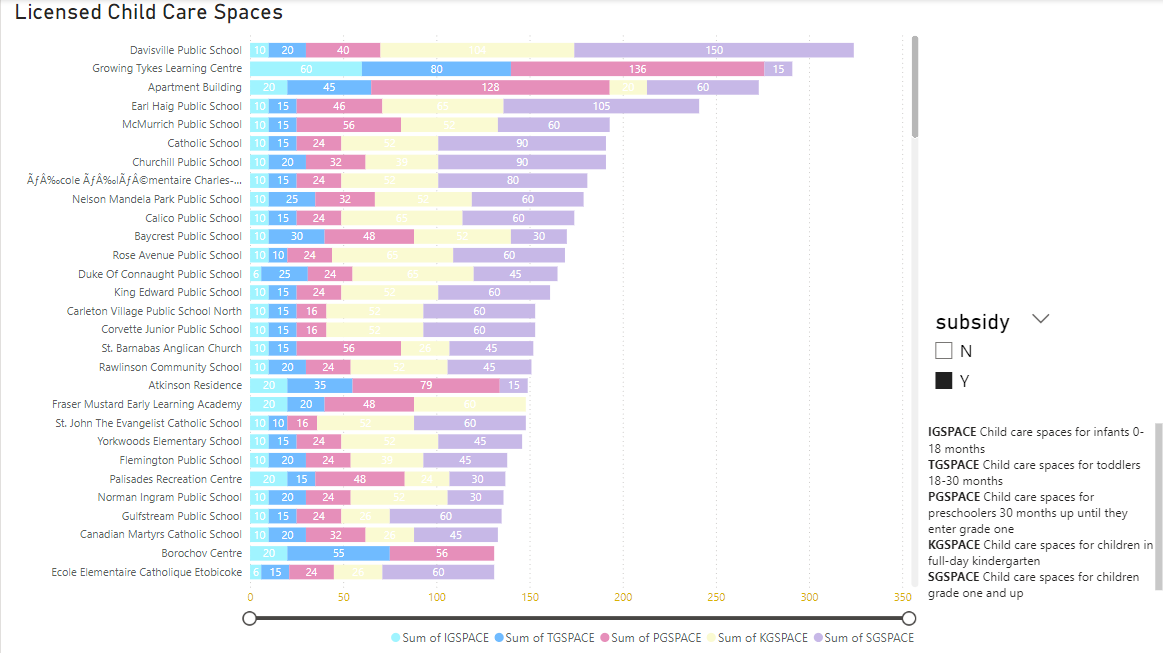
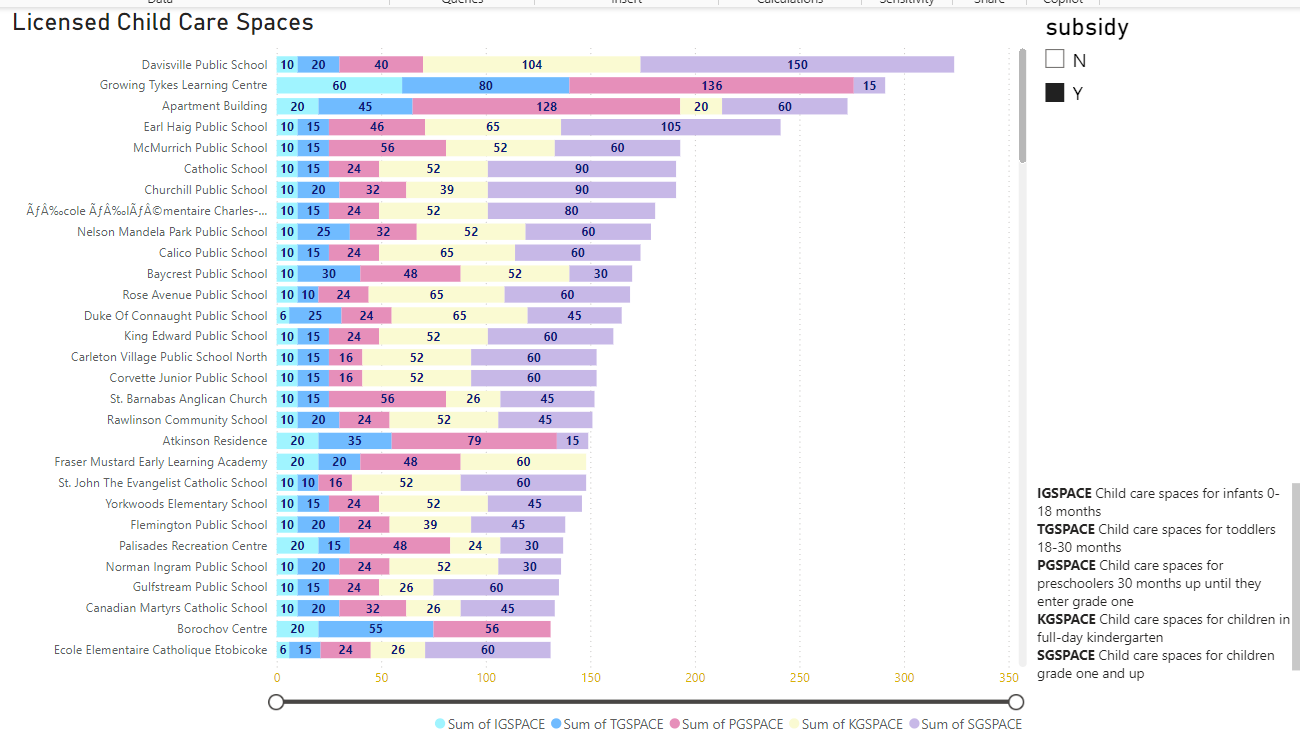
assignment-4

diff --git a/02_activities/assignments/assignment_4.md b/02_activities/assignments/assignment_4.md
@@ -10,16 +10,30 @@
     > What software did you use to create your data visualization?
     1. I used Jupyter Notebook for creating my data visualization. Specifically, I used Python libraries including pandas for data manipulation, folium for creating interactive maps, and geopy for geocoding addresses.
 
+    2. I used Power BI to create my second data visualization.
+
+
     > Who is your intended audience? 
     1. The intended audience for this visualization includes parents looking for licensed child care centers in Toronto, policymakers, and researchers interested in analyzing the distribution and availability of child care services in the city.
+
+    2. The intended audience for this visualization includes policymakers, city planners, education administrators, and parents in Toronto. This visualization is designed to help them understand the distribution and capacity of licensed child care centres across the city.
+
     
     > What information or message are you trying to convey with your visualization? 
     1. The main message of the visualization is to show the geographical distribution of licensed child care centers in Toronto and to highlight which centers offer fee subsidy contracts. This helps in identifying areas with high or low availability of subsidized child care services.
+
+    2. The visualization aims to convey the total number of child care spaces available in various licensed child care centres in Toronto. It highlights the different types of child care spaces (e.g., infant, toddler, preschool, kindergarten, school-age) and distinguishes centres that offer fee subsidies from those that don't.
+
     
     > What design principles (substantive, perceptual, aesthetic) did you consider when making your visualization? How did you apply these principles? With what elements of your plots? 
     1. Substantive: The map is focused on providing meaningful information about the location and subsidy status of child care centers. This helps users make informed decisions.
     Perceptual: Different colors are used to distinguish between centers that offer fee subsidies and those that do not, making it easy to perceive the information at a glance.
     Aesthetic: The map is designed to be visually appealing yet simple. Clean markers and no legends by default ensures that the map is not cluttered. Legends pop-up when to move the cursor over the selected marker. Markers are chosen to be easily visible against the map background. The map is centered around Toronto with an appropriate zoom level to give a clear view of the city and the distribution of the centers.
+
+    2. Substantive: I ensured the data accurately represented the number and types of child care spaces available at each centre.
+    Perceptual: I used different colors for the different types of spaces (IGSPACE, TGSPACE, PGSPACE, KGSPACE, SGSPACE).
+    Aesthetic: I chose a clean and readable layout, with a horizontal bar chart to make it easy to compare the total spaces across different centres. The use of color helps in distinguishing between the various categories.
+
     
     > How did you ensure that your data visualizations are reproducible? If the tool you used to make your data visualization is not reproducible, how will this impact your data visualization? 
     1. I ensured reproducibility by:
@@ -27,17 +41,28 @@
     - writing and documenting the code in Jupyter Notebook, which can be shared and executed in any environment with the required libraries installed.
     - including installation commands for necessary libraries to facilitate setting up the environment.
     If the tool was not reproducible, it would significantly impact the usability and reliability of the visualization, making it difficult for others to verify or build upon my work.
+
+    2. To ensure reproducibility, I used Power BI, which allows for the visualization to be recreated using the same dataset and steps. If Power BI weren't reproducible, it'd impact the ability to verify and build upon the analysis.
+
     
     > How did you ensure that your data visualization is accessible? 
     1. Using clear and distinguishable colors for markers to aid in quick identification.
     Adding tooltips and pop-ups on the map markers to provide additional information about each child care center.
-    Ensuring the map is interactive and can be zoomed and panned for better visibility and user experience. 
+    Ensuring the map is interactive and can be zoomed and panned for better visibility and user experience.
+
+    2. I used apropriate colors and included labels and a legend to ensure the visualization is accessible to people with visual impairments. The chart is designed to be clear and easy to interpret, with explanatory text for different space types and subsidy status. 
     
     > Who are the individuals and communities who might be impacted by your visualization? 
     1. The individuals and communities impacted by this visualization are:
-    - parents looking for child care options in Toronto.
-    - policymakers and local government officials who plan and allocate resources for child care services.
-    - community organizations that advocate for improved child care services and accessibility. 
+    - parents looking for child care options in Toronto
+    - policymakers and local government officials who plan and allocate resources for child care services
+    - community organizations that advocate for improved child care services and accessibility
+
+    2. The individuals and communities impacted by this visualization are:
+    - parents looking for child care
+    - policymakers making decisions about funding and resource allocation
+    - and child care providers looking to understand the competitive landscape
+
     
     > How did you choose which features of your chosen dataset to include or exclude from your visualization? 
     1. I included features that are most relevant to the intended audience:
@@ -45,6 +70,10 @@
     - the subsidy column to highlight centers that offer fee subsidies.
     - geographic coordinates for plotting on the map.
     Other features, such as the total number of spaces available and building types, were not included in the map but could be used in additional visualizations if needed.
+
+
+    2. I included features directly related to the capacity and subsidy status of the child care centres, as these are the most relevant to the intended audience. Features such as the exact address and phone numbers were excluded to maintain focus on the capacity and subsidy information.
+
     
     > What ‘underwater labour’ contributed to your final data visualization product?
     1. The ‘underwater labour’ contributed:
@@ -52,6 +81,9 @@
     - geocoding the addresses to obtain latitude and longitude coordinates, which was a time-consuming process.
     - designing the visualization to be both informative and visually appealing, which included choosing appropriate colors and ensuring the map's interactivity.
     - testing and debugging the code to ensure it runs smoothly and accurately represents the data.
+
+    2. The ‘underwater labour’ included cleaning the data, ensuring its accuracy, and deciding how to best represent it visually. This also involved trial and error in Power BI to find the most effective chart type and design for conveying the information clearly and effectively.
+
 
 - This assignment is intentionally open-ended - you are free to create static or dynamic data visualizations, maps, or whatever form of data visualization you think best communicates your information to your audience of choice! 
 - Total word count should not exceed **(as a maximum) 1000 words** 
